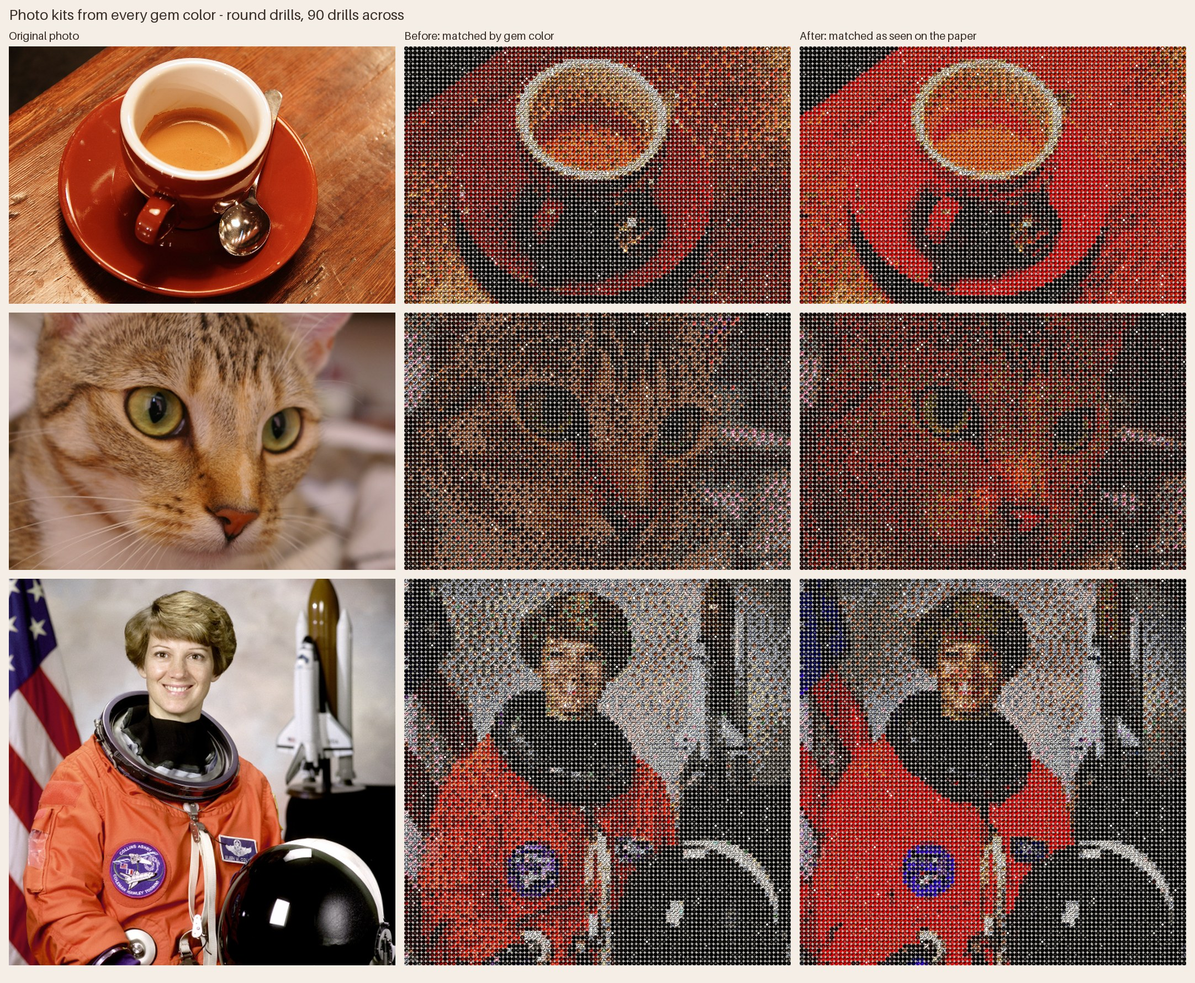
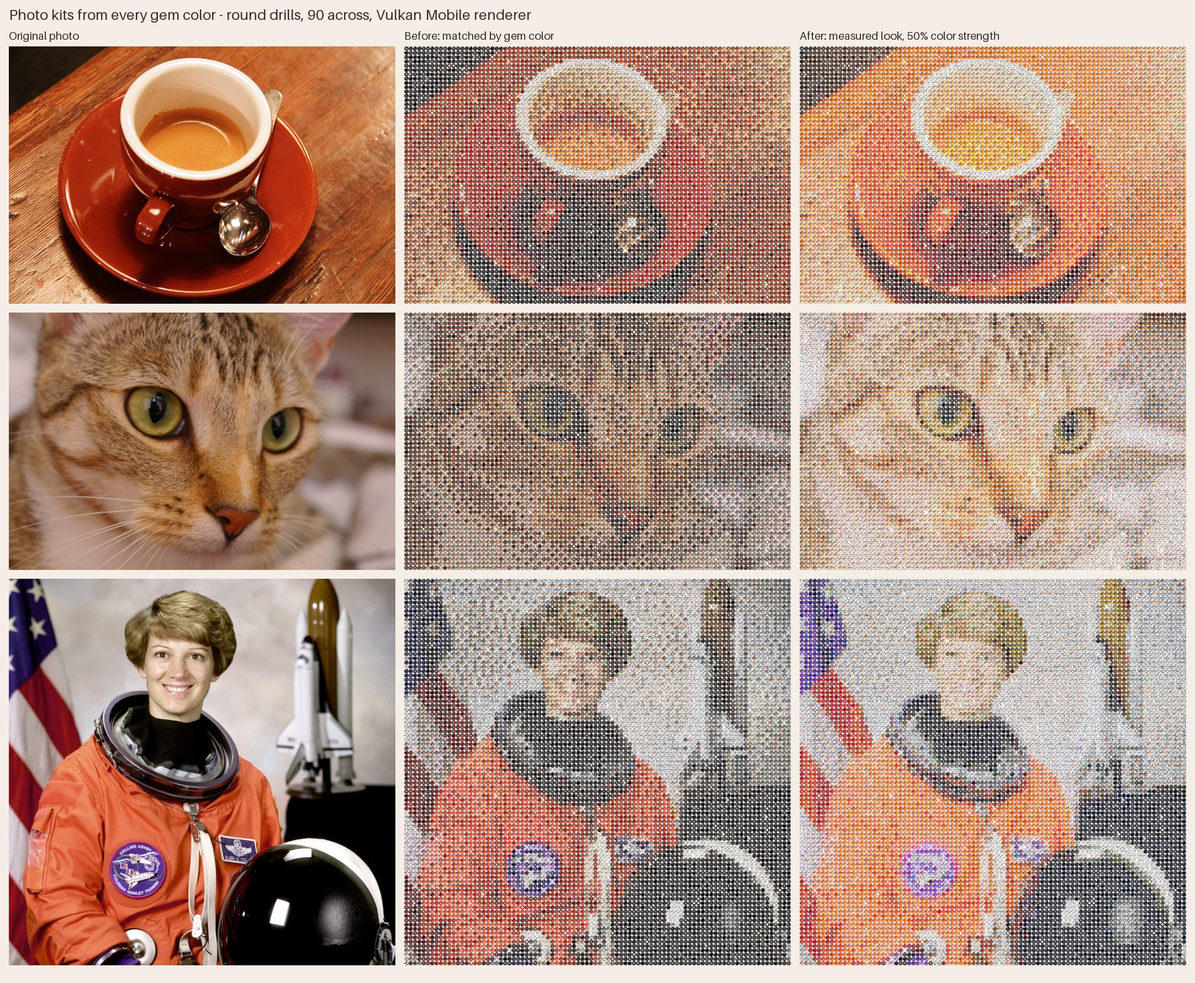
Keep kit detail: stretch lightness onto the drills', weigh it in matching
Measured on the Vulkan Mobile renderer, round drills only look between
lightness 57 and 88, so matching absolute colors turned every dark area into
one drill and lost its detail. Kits now stretch the picture's own lightness
span (1% to 99%) onto the drills', keep half of each color's strength as
they do (a lifted brown with all of it reads orange) and count lightness
twice over in matching. Against the photos at drill resolution this keeps
structure (gradient correlation 0.91-0.97, was 0.77-0.90) with about 2-3x
the color strength of matching by gem color.

The generator lab gets a Kit color strength picker (light_chroma) for
trying other strengths, and docs/kit-compare has Vulkan before/after
renders and a color strength comparison.

Claude-Session: https://claude.ai/code/session_012LQ98rgWdxVeG9fAF7mE8d

diff --git a/README.md b/README.md
@@ -228,13 +228,20 @@ mode for trying out new pattern generation.
   Drills fill 98% of their cell, so neighbors almost touch, like a real kit
   (square drills' slots are sized by `GemShapes.drill_length`, since a square
   draws at 75% of its slot to fit round collage slots).
-  Round drills leave about a quarter of each cell, its corners, showing the
-  paper, which from a little way off mixes in and washes the picture out.
-  So round kits pick each cell's gem by how it looks mixed with the paper
-  around it (`KitGenerator.seen_color`), not by its own color, which turns
-  to deeper, richer gems where the picture needs them; photo kits in the
-  photo's own colors make each drill color the one that looks like the
-  photo's once mixed (`compensated_color`, as near as a drill can get).
+  Drills don't look like their gems' own colors on the board: the shader
+  lights their facets, and paper and shadows show between them (a quarter
+  of each cell around a round drill). On the board a black round drill
+  looks a mid gray, so round drills only span lightness 57 to 88 (square
+  29 to 86), which washed kits out. So kits match pictures against how
+  each gem actually looks as a drill (`KitSeenColors`, measured on the 3D
+  board by `tools/calibrate_kit_colors.gd`), stretch the picture's own
+  lightness span onto the drills' (`KitGenerator.fit_light`, keeping a
+  share of each color's strength, `LIGHT_CHROMA` (50%), so lifted browns
+  don't turn orange; the generator lab's *Kit color strength* tries
+  others) and count lightness twice over in matching, so the detail stays.
+  Photo kits in the photo's own colors make each drill the color that looks
+  like the photo's (`compensated_color`). Before/after renders are in
+  `docs/kit-compare`.
   *Kit size* in the New puzzle panel (for photo kits too) sets the drills
   on the longer side: Small 50, Medium 90, Large 130 or X-large 250; the
   shorter side follows the picture's shape (an X-large kit can have 62,500
@@ -446,7 +453,8 @@ permission; both are on in the committed Android export preset
 | `heart.gd` | Hearts from three choices. **Shape:** 6 outline proportions (classic, plump, slim, sweetheart with a deep cleft, puffy, pointed), each varied slightly. **Collar:** a band just inside the outline, made by a true inward offset so it stays even: plain, rays, beads, scallops, petals, double or none. **Inside:** 1–3 combined patterns, from 4 center motifs (heart, double heart with spokes, flower, rosette) and 8 fills (stripes, chevrons, diamond lattice, rays, waves, dots, grid, echoes of the motif's outline). Two fills split the heart along a mirrored divider (straight, arc, wave or V); fills flow around the motif, so every region stays closed. Everything is mirror-symmetric. Pass `recent` (the previous hearts' choices) to skip recent ones and favor the least used. |
 | `butterfly.gd` | Butterflies from: 7 **wing shapes** (classic, swallowtail with tail paddles, rounded, glider, scalloped edges, moth, fairy with big hindwings), 5 **borders** along the wing edges (band, spotted, scalloped, cells, none), and 1–3 **wing patterns** per wing, chosen separately for forewing and hindwing: holes (eyespot, window) and, flowing around them, veins, rings, stripes, scattered spots or a row of dots. Plus 3 **bodies** (slender, plump, segmented) and 3 **antennae** (clubbed, curled, feathered). The forewing overlaps the hindwing and the body both, with hidden lines clipped so every region stays closed. Built on the right and mirrored. Pass `recent` to skip recent choices and favor the least used. |
 | `snowflake.gd` | Six-fold snowflakes from: 6 **centers** (hexagon, nested, star, rosette, spoked, flower), 7 **arm styles** (plain, branched, fern, plates, arrows, spear, crystal), 5 **tips** (point, plate, diamond, fork, ring), **content between the arms** (stellar plate, webs, spikes, petals, diamonds or dots; one or two kinds on all but about 8% of snowflakes) and 0–2 **details** (ribs, dots, inner outlines). Arms, branches, webs and plates merge into one clean silhouette; centers, plates, tips and petals keep their own outlines, so every region stays closed. Pass `recent` to skip recent choices and favor the least used. |
-| `kit_generator.gd` | Kit pipeline: crop to the board aspect, area-average downscale (40×50 / 70×90 / 100×130), k-means in Lab, snap to the gem colors she owns (only those; for round drills, by how each looks mixed with the paper showing in its cell's corners), clean up isolated cells, then build a legend with a symbol per color. |
+| `kit_generator.gd` | Kit pipeline: crop to the board aspect, area-average downscale (40×50 / 70×90 / 100×130), k-means in Lab, stretch the picture's lightness onto the drills', snap to the gem colors she owns (only those) by how each looks as a drill on the board (`KitSeenColors`), clean up isolated cells, then build a legend with a symbol per color. |
+| `kit_seen_colors.gd` | Generated by `tools/calibrate_kit_colors.gd`: how every gem looks as a round and a square kit drill on the board (a whole cell's mean color, over several light positions, as meshes and impostors). Run it again after changing the gem shaders, the paper or the gem colors: `xvfb-run -a godot --rendering-method mobile -s res://tools/calibrate_kit_colors.gd` (needs Vulkan; software Vulkan works, the OpenGL fallback renders differently). |
 | `color_quantizer.gd`, `lab_color.gd` | Weighted k-means++ in Lab over a color histogram, plus sRGB ↔ Lab conversion. |
 | `line_raster.gd` | Polylines or line-art images → line masks (or, for swirls, a family label per pixel); dilation to close gaps; carving channels around line stones. |
 | `contours.gd` | Vector paths from rasters: iso-lines of a region's edge distance (marching squares) and centerlines of a line mask (thinning, spur pruning, split at junctions). |
@@ -550,7 +558,7 @@ frame.
   photo (*Photo…*) or take one (*Camera…*). *Kit size* has the game's sizes,
   small to X-large (50-250 drills on the longer side), and *Drill colors*
   makes kits in the starter gem colors or in the picture's own colors (as
-  many as *Kit colors*, mapped like the game's photo kits). *New pattern* (or the Pattern box) makes another collage of the same
+  many as *Kit colors*, mapped like the game's photo kits). *Kit color strength* sets how much of each color's strength a kit keeps as its lightness is stretched onto the drills' (`light_chroma`; the game uses 50%). *New pattern* (or the Pattern box) makes another collage of the same
   lines; Setting and Line gems force a choice. Then view it as a collage, a kit or plain line art, and save the JSON.
   The **Lines** box above the picture flips between the collage (or kit) and
   the line art it was made from, without regenerating and keeping the zoom,
